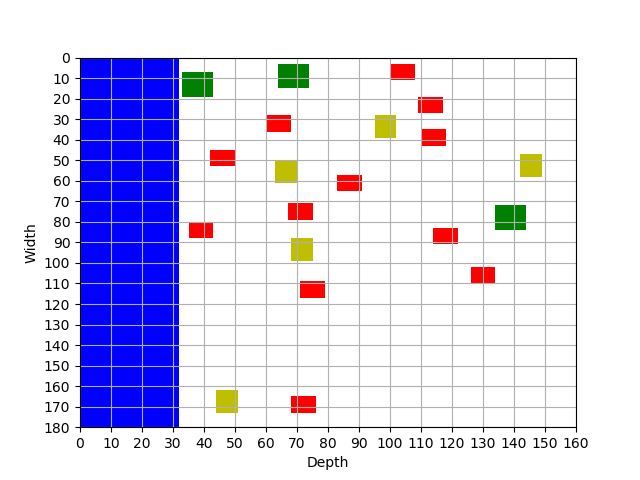
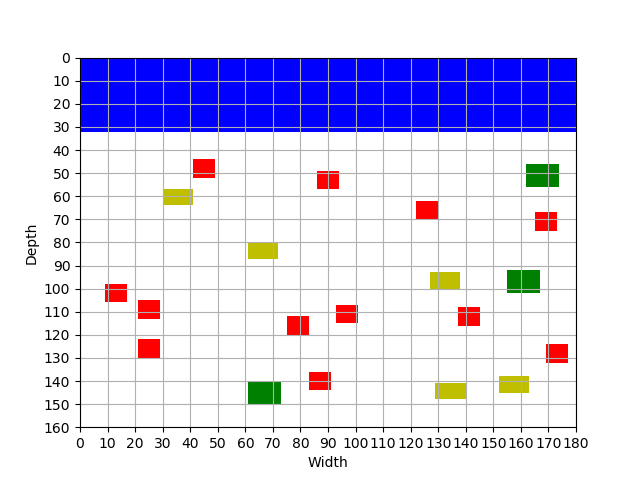
adapted to new coordinates

diff --git a/code/classes/grid.py b/code/classes/grid.py
@@ -18,12 +18,12 @@ class Grid():
         """
 
         grid = np.array([])
-        for y in range(width + 1 ):
-            for x in range(depth + 1):
+        for y in range(depth + 1 ):
+            for x in range(width + 1):
                 cell = Cell(x, y)
                 grid = np.append(grid, cell)
         
-        grid = np.resize(grid,(width + 1, depth + 1))
+        grid = np.resize(grid,(depth + 1, width + 1))
         return grid 
 
     def print_grid(self):
@@ -88,10 +88,10 @@ class Grid():
                 strip_row = [item.strip("\"") for item in row]
 
                 # Save water coordinates in dict
-                water[strip_row[0]] = {'top_left': (int(strip_row[1]), int(strip_row[4])),
-                                    'top_right': (int(strip_row[3]), int(strip_row[4])),
-                                    'bottom_left': (int(strip_row[1]), int(strip_row[2])),
-                                    'bottom_right': (int(strip_row[3]), int(strip_row[2]))}
+                water[strip_row[0]] = {'bottom_left': (int(strip_row[1]), int(strip_row[4])),
+                                    'bottom_right': (int(strip_row[3]), int(strip_row[4])),
+                                    'top_left': (int(strip_row[1]), int(strip_row[2])),
+                                    'top_right': (int(strip_row[3]), int(strip_row[2]))}
 
         return water
 
@@ -104,14 +104,22 @@ class Grid():
         print("Creating water")
 
         all_water = self.load_water(self.map)
+        print(f"All water: {all_water}")
 
         # Iterate over all water objects in dict
         for water in all_water:
 
-            # Define coordinates of water objects
-            for x in range(int(all_water[water]['bottom_left'][0]), int(all_water[water]['top_right'][0]) + 1):
-                for y in range(int(all_water[water]['bottom_left'][1]), int(all_water[water]['top_right'][1]) + 1):
+            # # Define coordinates of water objects
+            # for x in range(int(all_water[water]['bottom_left'][0]), int(all_water[water]['top_right'][0]) + 1):
+            #     for y in range(int(all_water[water]['bottom_left'][1]), int(all_water[water]['top_right'][1]) + 1):
 
+            #         # Transform cells into 'Water' type
+            #         self.cells[y][x].type = "Water"
+
+            # Define coordinates of water objects
+            for y in range(int(all_water[water]['top_left'][1]), int(all_water[water]['bottom_right'][1]) + 1):
+                for x in range(int(all_water[water]['bottom_left'][0]), int(all_water[water]['top_right'][0]) + 1):    
+                    
                     # Transform cells into 'Water' type
                     self.cells[y][x].type = "Water"
 

diff --git a/code/algorithms/randomize.py b/code/algorithms/randomize.py
@@ -38,10 +38,10 @@ def random_assignment_house(grid, house, random_cell):
 
 	# Set house coordinates
 	house_coordinates = {
-		'bottom_left': (random_cell_x, random_cell_y + house.width), 
-		'bottom_right': (random_cell_x + house.depth, random_cell_y + house.width), 
+		'bottom_left': (random_cell_x, random_cell_y + house.depth), 
+		'bottom_right': (random_cell_x + house.width, random_cell_y + house.depth), 
 		'top_left': (random_cell_x, random_cell_y),
-		'top_right': (random_cell_x + house.depth, random_cell_y)
+		'top_right': (random_cell_x + house.width, random_cell_y)
 		}
 
 	# Set house coordinates including mandatory free space
@@ -77,8 +77,8 @@ def random_assignment_house(grid, house, random_cell):
 	if occupied == False:
 
 		# Set cells to according house type
-		for row in range(random_cell_y, random_cell_y + house.width):
-			for column in range(random_cell_x, random_cell_x + house.depth):
+		for row in range(random_cell_y, random_cell_y + house.depth):
+			for column in range(random_cell_x, random_cell_x + house.width):
 				current_cell = grid.cells[row, column]
 				current_cell.type = house.type
 
@@ -113,13 +113,10 @@ def random_assignment(grid):
 
 		print(f"HOUSE: {house}")
 
-		succes = False
-
-		while succes == False:
+		while house.placed == False:
 			try:
 				random_cell = random_empty_cell(copy_grid)
 				new_grid = random_assignment_house(copy_grid, house, random_cell)
-				succes = True
 				house.placed = True
 
 				print(f"Updated grid:")

diff --git a/code/visualization/visualize.py b/code/visualization/visualize.py
@@ -9,20 +9,20 @@ def visualize(grid):
     """
 
     # Create diagram representing a map of the Amstelhaege
-    plt.axis([0, grid.depth, grid.width, 0])
+    plt.axis([0, grid.width, grid.depth, 0])
 
     # Define scaling of axes 
-    plt.xticks(np.arange(0, grid.depth + 1, 10))
-    plt.yticks(np.arange(0, grid.width + 1, 10)) 
+    plt.xticks(np.arange(0, grid.width + 1, 10))
+    plt.yticks(np.arange(0, grid.depth + 1, 10)) 
 
     # Label axes
-    plt.xlabel("Depth")
-    plt.ylabel("Width")
+    plt.xlabel("Width")
+    plt.ylabel("Depth")
 
     # Begin scaling where x- and y-axis meet
     # from https://stackoverflow.com/questions/44395838/how-to-make-0-0-on-matplotlib-graph-on-the-bottom-left-corner
-    plt.xlim([0, grid.depth])
-    plt.ylim([grid.width, 0])
+    plt.xlim([0, grid.width])
+    plt.ylim([grid.depth, 0])
 
     # Show grid
     plt.grid(True)
@@ -40,7 +40,10 @@ def visualize(grid):
         bottom_left =  water[ident].get('bottom_left')
         top_right = water[ident].get('top_right')
 
-        water_vis = plt.Rectangle(bottom_left, int(top_right[0]), int(top_right[1]), fc="blue")
+        rectangle_width = top_right[0] - bottom_left[0]
+        rectangle_height = top_right[1] - bottom_left[1]
+
+        water_vis = plt.Rectangle(bottom_left, rectangle_width, rectangle_height, fc="blue")
         plt.gca().add_patch(water_vis)
 
     # Load houses based on grid and add to diagram
